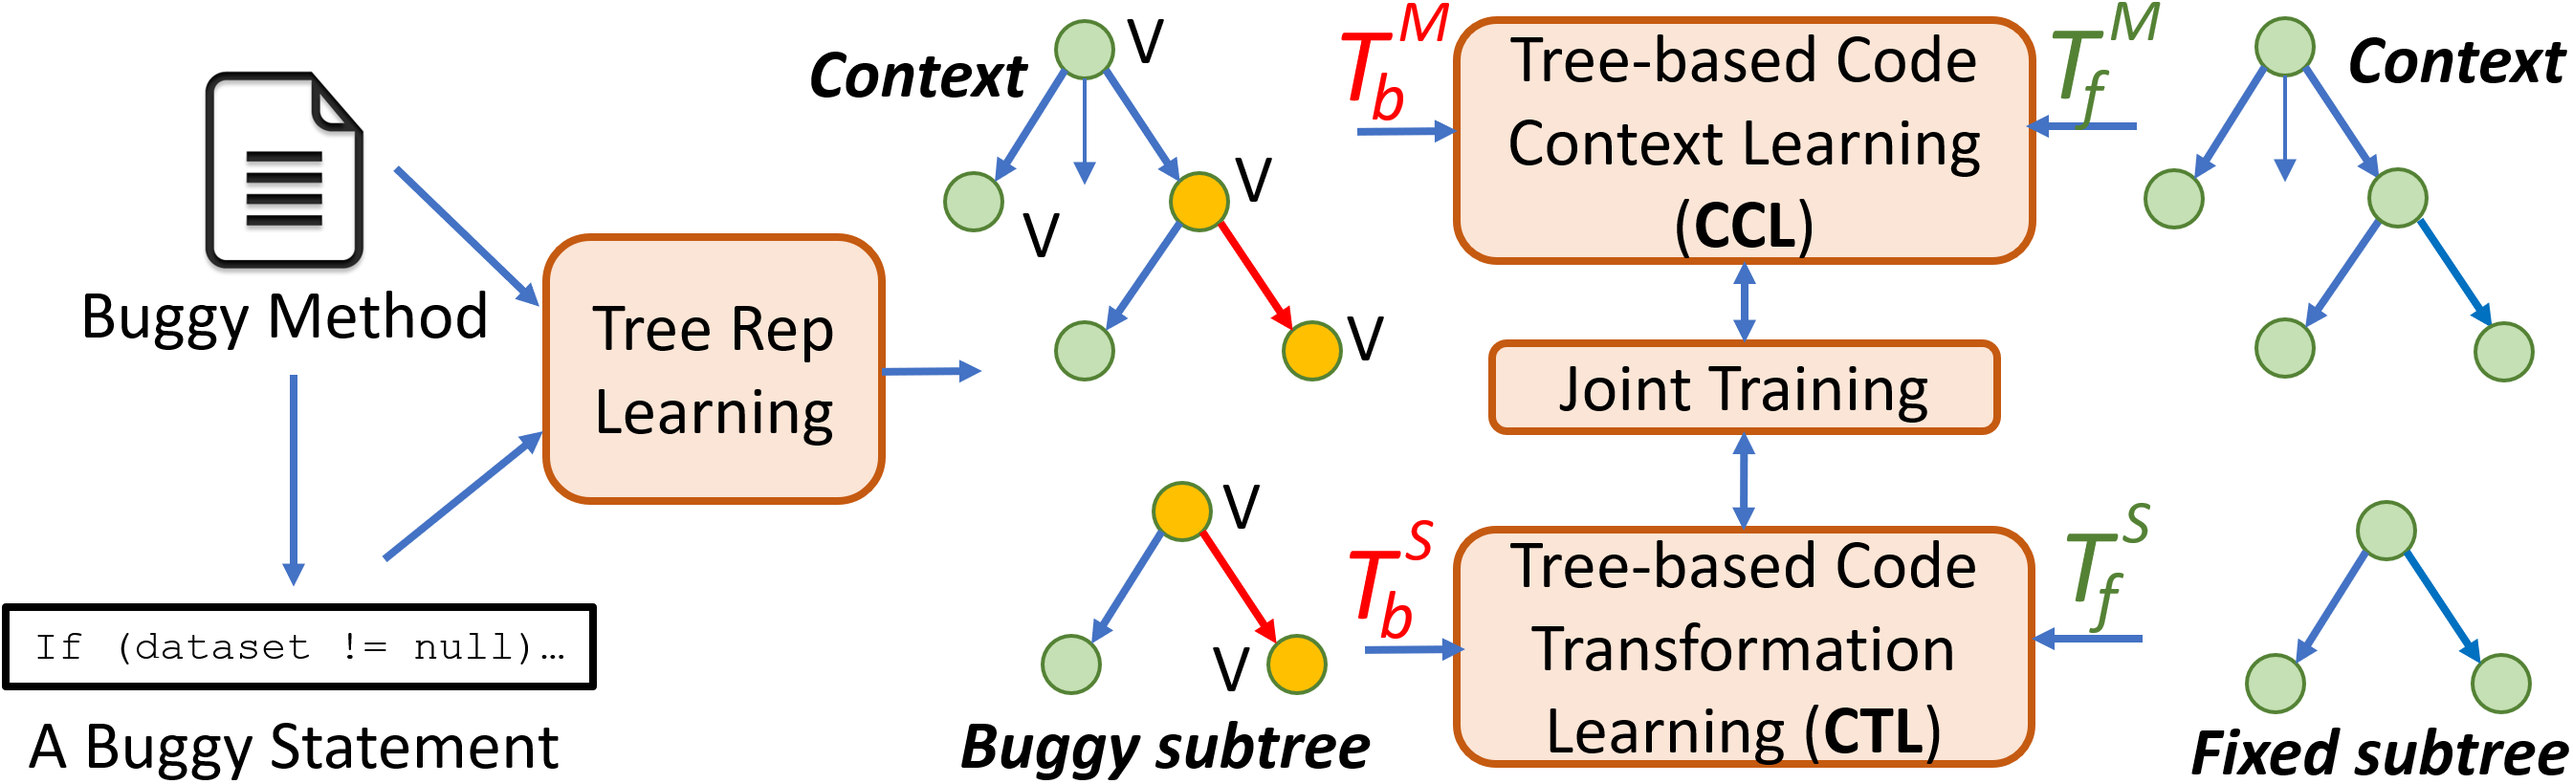
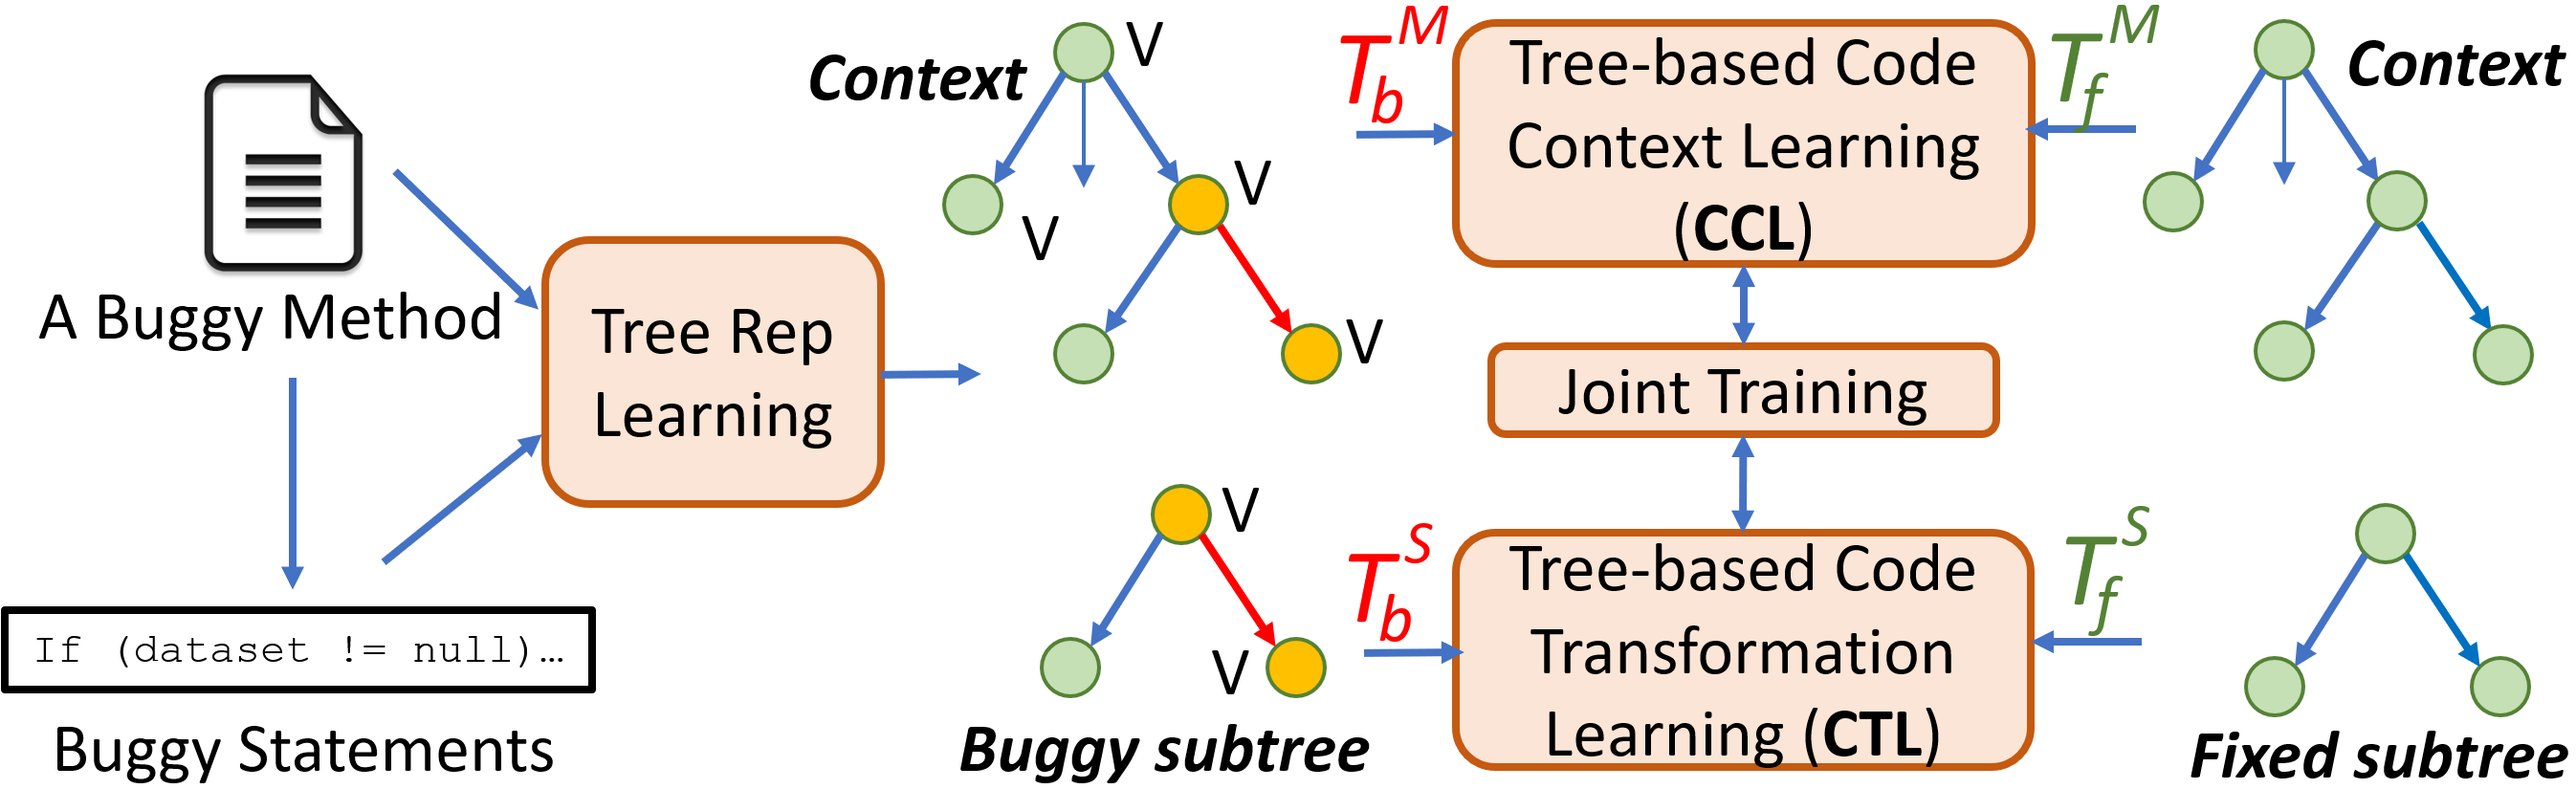
RQ1

diff --git a/sections/RQ1_result.tex b/sections/RQ1_result.tex
@@ -44,7 +44,7 @@ SequenceR, DLFix, CoCoNuT, CURE, CURE*, RewardRepair, and DEAR respectively
 (Table~\ref{RQ1_defect4j}).
 
 Compared to Recoder, {\tool} complements to Recoder. Since generating
-only {\em single-hunk} patches, Recoder did not fix 13
+only {\em single-hunk} patches, Recoder did not fix 16
 multi-hunk/multi-statement bugs that {\tool} fixed (Table~\ref{multi:tab}).
 {\tool} can handle the multi-hunk/multi-statement bugs
 %because the hunk
@@ -52,7 +52,7 @@ multi-hunk/multi-statement bugs that {\tool} fixed (Table~\ref{multi:tab}).
 thanks to its ability to learn the transformations to multiple buggy
 AST subtrees in the same context.
 %
-Recoder fixed 28 single-hunk bugs that {\tool} missed. Recoder did not
+Recoder fixed 31 single-hunk bugs that {\tool} missed. Recoder did not
 report the number of plausible patches.
 
 %With the 5-hour limit, {\tool} generates {\em the most correct (56)
@@ -72,6 +72,10 @@ the ranking to pick and validate top 5,000 candidates. Despite taking
 more patch validation time (5.5 hours on average for
 validating those 5,000 candidates), CURE* fixed 2 bugs less than
 {\tool}.
+
+Compared with DEAR, {\tool} fixed 3 more one-stmt bugs. Also, the
+multi-hunk/multi-statement bugs fixed by DLFix, CoCoNuT, and CURE
+could be fixed by changing one statement at a time.
 
 %In comparison with CURE and CURE*, CURE* ranked 10,000 candidates and
 %refined the ranking to pick and validate top 5,000 candidates. Despite
@@ -101,9 +105,9 @@ validating those 5,000 candidates), CURE* fixed 2 bugs less than
 			\hline
 			Bug Types & DLFix& CoCoNuT & CURE & Recoder & DEAR & {\tool}\\\hline
 			
-			One-Hunk One-Stmt  & 35 & 37 & 38 & 64 & 33 & 36\\
+			One-Hunk One-Stmt  & 35 & 37 & 38 & 67 & 33 & 36\\
 			One-Hunk Multi-Stmts  & 1 &3 & 3 & 4 & 4 & 4\\ 
-			Multi-Hunks One-Stmt  & 4 &3 & 6 & 3 & 13 & 13 \\
+			Multi-Hunks One-Stmt  & 4 &3 & 6 & 0 & 13 & 13 \\
 			Multi-Hunks Multi-Stmts  & 0 &0 & 0 & 0 & 1 & 1\\
 			Multi-Hunks Mix-Stmts  & 0 & 1 & 1 & 0 & 2 & 2\\\hline
 			Total & 40 & 44 & 48 & 71 & 53 & {\bf 56}\\
@@ -125,13 +129,13 @@ validating those 5,000 candidates), CURE* fixed 2 bugs less than
 %\vspace{-6pt}
 \subsubsection{{\bf With Fault Localization}}
 
-Table~\ref{RQ1_defects4J_with_FL} shows the result on
-Defects4J with an FL tool. Due to the confounding inaccuracy of the FL
-tool, all models decrease accuracies. {\tool} fixed more bugs
-than any baseline except Recoder. It automatically fixes 44 bugs,
-i.e., 193.3\% (29 bugs), 46.7\% (14), 33.3\% (11), 22.2\% (8), and
-10\% (4) more bugs than the baselines SequenceR, DLFix, CoCoNuT, CURE,
-and CURE*, respectively.
+Table~\ref{RQ1_defects4J_with_FL} shows the result on Defects4J with
+an FL tool. Due to the confounding inaccuracy of the FL tool, all
+models decrease accuracies. {\tool} fixed more bugs than any baseline
+except Recoder. It automatically fixes 50 bugs, i.e., 200\% (35 bugs),
+66.6\% (20), 51.5\% (17), 38.8\% (14), 25\% (10), 72.5\% (21) and
+6\% (3) more bugs than the baselines SequenceR, DLFix, CoCoNuT, CURE,
+CURE*, RewardRepair, and DEAR, respectively.
 
 Compared to Recoder, {\tool} complements to Recoder.  Because
 generating only {\em single-hunk} patches, Recoder did not fix 9

diff --git a/sections/overview.tex b/sections/overview.tex
@@ -7,12 +7,13 @@
 \subsection{Training Process}
 
 Figure~\ref{overview-training} shows the overview of our training
-process. If a method has multiple buggy statements, we treat one buggy
+process. We use a divide-and-conquer strategy for each buggy method:
+if a method has multiple buggy statements, we process one buggy
 statement at a time and its enclosing method, together with its
-respective fixed code as an input training instance.
+respective fixed code as a training instance.
 %The input of~this process is the source code of a buggy method and one
 %of its buggy statements, and the respective fixed source code.
-The output includes the trained CCL model and the trained CTL model.
+The output includes the trained CCL and trained CTL models.
 The training process has two main steps:
 
 \begin{figure}[t]
@@ -87,28 +88,30 @@ both models.
 
 \begin{figure}[t]
 	\centering
-	\includegraphics[width=3.3in]{graphs/overview-predict-4.png}
+	\includegraphics[width=3.3in]{graphs/overview-predict-5.png}
 	\caption{{\tool}: Fixing Process}
         \vspace{-3pt}
 	\label{overview-fixing}
 \end{figure}
 
-Figure~\ref{overview-fixing} illustrates the prediction process, i.e.,
-the automated fixing process. A fault localization (FL) tool could be
-used to locate the buggy statements. We also use the hunk detection
-and expansion in DEAR~\cite{icse22} to locate a bug with
-multi-hunks/multi-statements. They will be the input for {\tool}.
+Figure~\ref{overview-fixing} illustrates the fixing process
+(prediction). A fault localization (FL) tool could be used to locate
+the buggy statements. We additionally use the hunk detection/expansion
+module in DEAR~\cite{icse22} to locate multi-hunks/multi-statements
+for a bug. Each method to be fixed will be the input and fed to Tree
+Representation Learning.
 %A common usage of our tool is that a developer could first use a fault
 %localization tool (FL) to detect the buggy statements that need to be
 %fixed. Then, the input for {\tool} is a buggy statement in the
 %enclosing method.
 %
-The fixing process shares the Tree-based Representation
-Learning step with the training.
+%The fixing process shares the Tree-based Representation
+%Learning step with the training.
 
 After that step, the vectorized buggy AST subtree (a node is replaced
-by a vector), is used as the input of the trained CTL model. The
-output of the trained CTL model is the fixed AST subtree, which is
+by a vector), is used as the input of the trained CTL model. That buggy
+AST subtree might have smaller buggy subtrees for buggy statements.
+The output of the trained CTL model is the fixed AST subtree, which is
 converted back into source code to form a candidate patch. We use a
 patch generation that uses beam search over the AST structure and
 works in accordance with the decoder as part of CTL to improve

diff --git a/sections/methodology.tex b/sections/methodology.tex
@@ -85,11 +85,12 @@ The vector for the summarized node is used as a {\em weight}
 n a cross-product with all the vectors of the nodes in the subtrees to
 train code-transformation model.
 
-{\bf DEAR~\cite{icse22}:} DEAR uses a two-tier, tree-based LSTM model
+{\bf DEAR~\cite{icse22}:} uses a tree LSTM model
 %that incorporates cycle training and uses a divide-and-conquer
 %strategy to learn proper code transformations
-and extracts code features from contexts to fix multiple-statement and
-multiple-hunk bugs.
+and extracts code context features to fix multi-statement/multi-hunk
+bugs. We did not compare with Hercules~\cite{10.1109/ICSE.2019.00020} since
+DEAR was shown to outperform~it.
 
 %for fixing multiple statements in the suitable fixing context.
 %leverages DLFix to support multi-statement/ multiple-hunk bugs. For
@@ -132,6 +133,7 @@ It extracts code features from contexts to fix buggy statements.
 {\bf Recoder~\cite{recoder-fse21}}: uses a syntax-guided edit decoder
 to generate edits rather than modified code.
 %it was trained on Defects4J after multiple-statement bugs were filtered.
+
 
 
 For all approaches under study in this RQ, we used {\em BigFix as the
